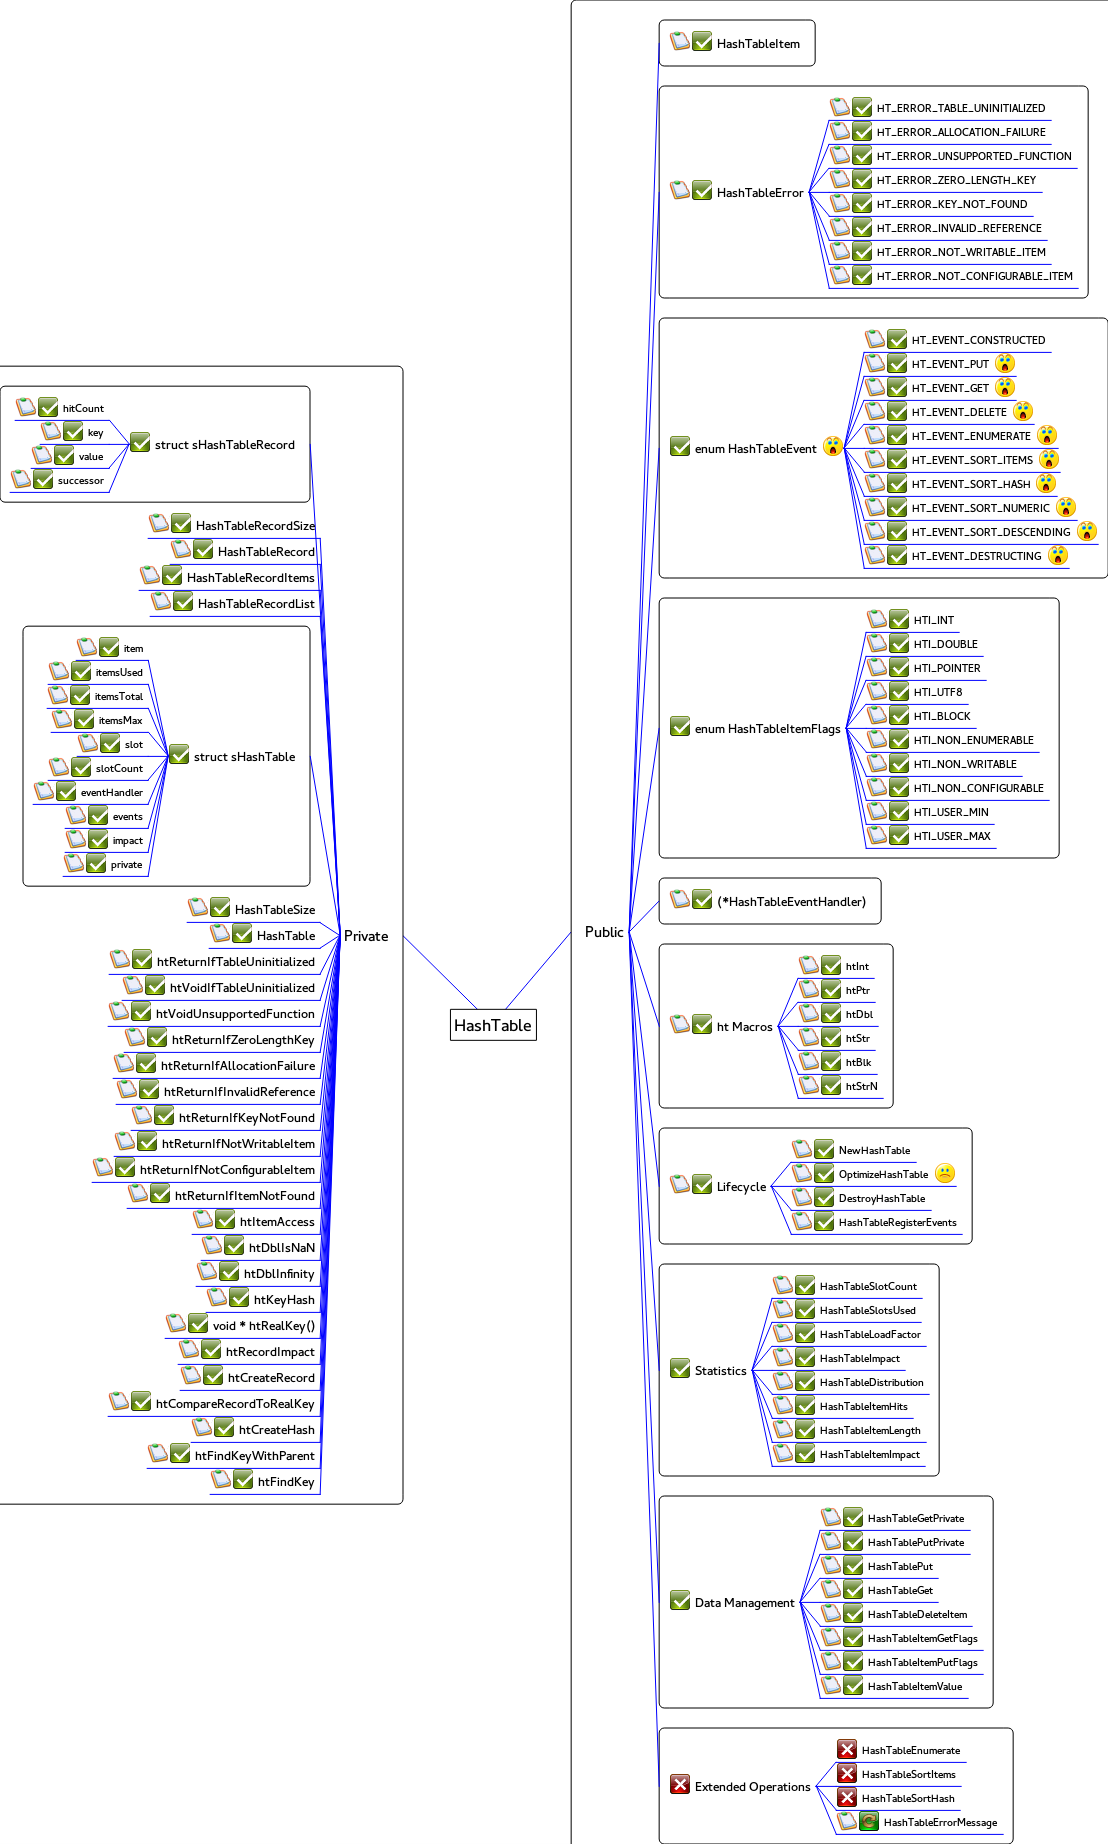
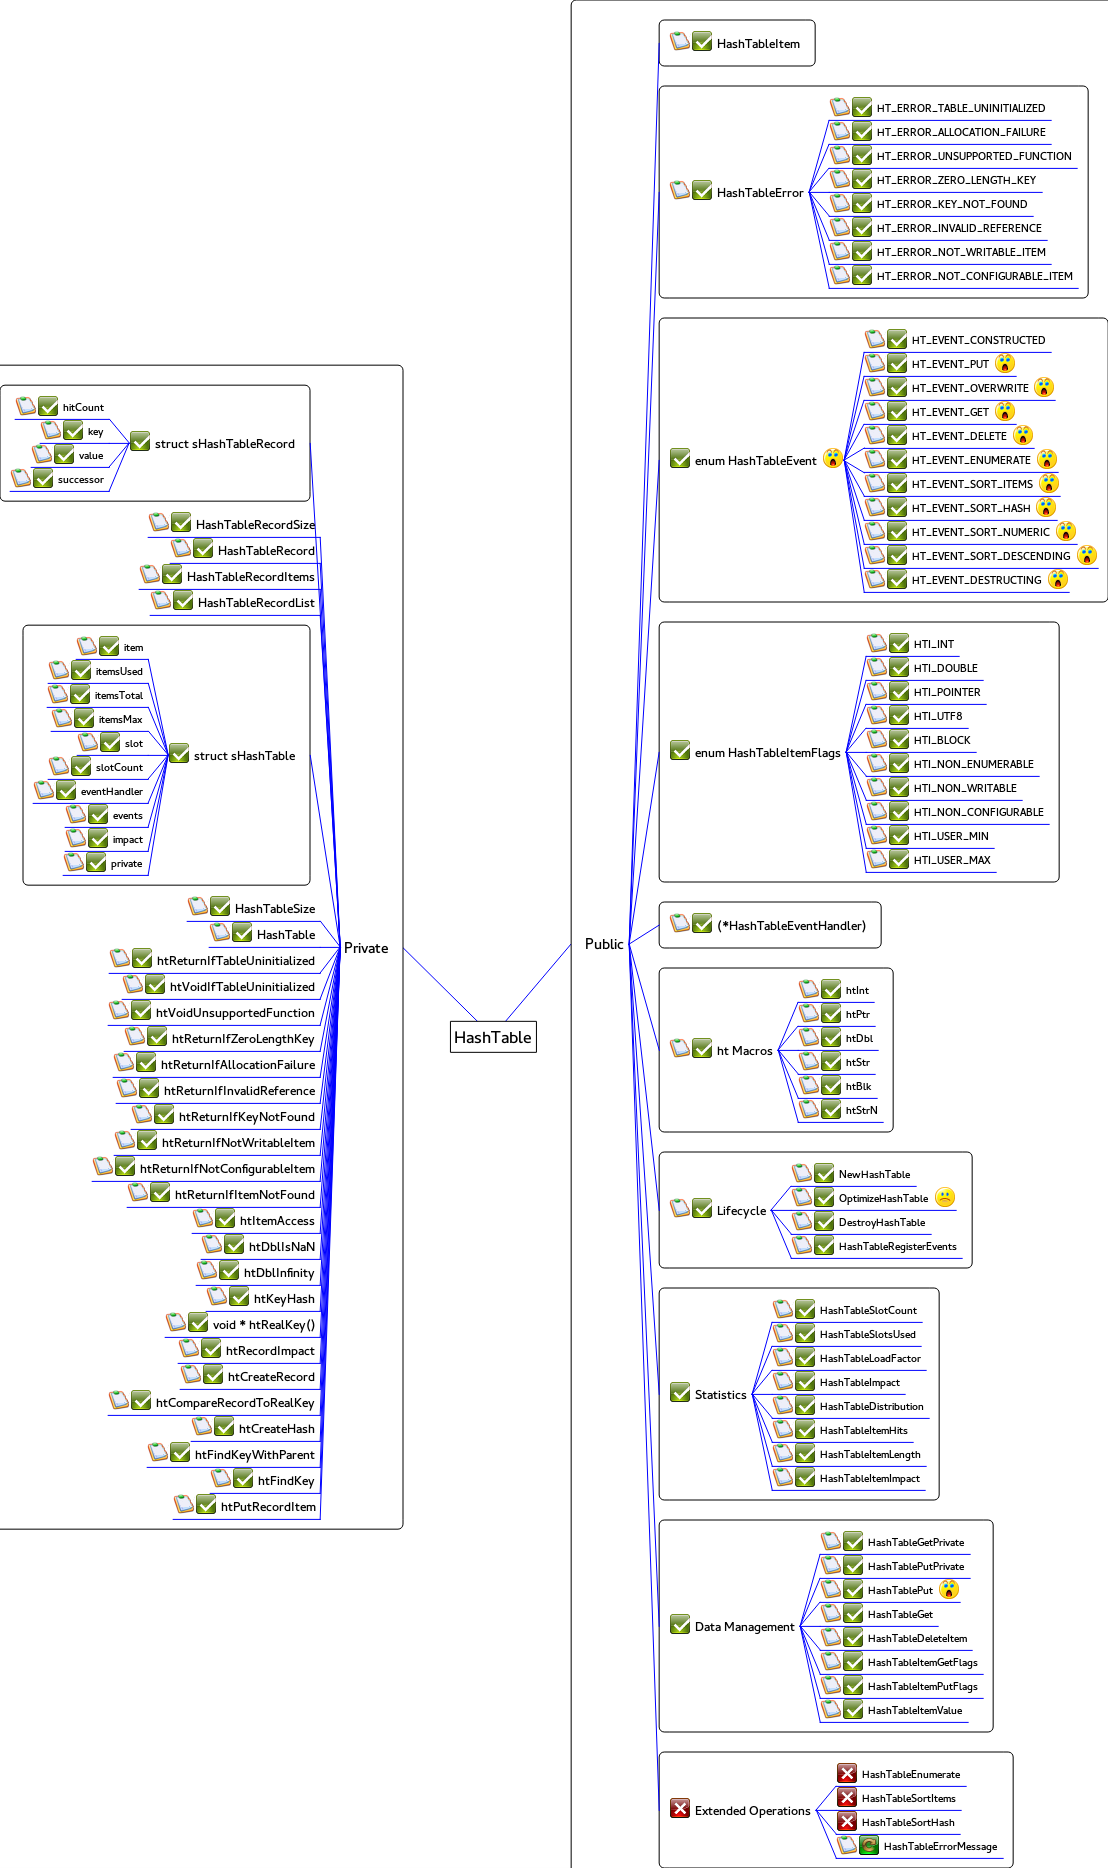
Documentation sync

diff --git a/HashTable.html b/HashTable.html
@@ -65,42 +65,47 @@ size_t HT_EVENT_CONSTRUCTED<br/><br/>A new hash table has been successfully cons
 size_T HT_EVENT_PUT<br/><br/>The API has been instructed to put data into the hash table.<br/>
 </td></tr></table>
 </li>
-<li><span class='vym-branch3'  id='mc:0,bo:0,bo:2,bo:2'>HT_EVENT_GET</span>
+<li><span class='vym-branch3'  id='mc:0,bo:0,bo:2,bo:2'>HT_EVENT_OVERWRITE</span>
+<table class="vym-note"><tr><td>
+size_t HT_EVENT_OVERWRITE<br/><br/>The API has been instructed to overwrite existing data.<br/>
+</td></tr></table>
+</li>
+<li><span class='vym-branch3'  id='mc:0,bo:0,bo:2,bo:3'>HT_EVENT_GET</span>
 <table class="vym-note"><tr><td>
 size_t HT_EVENT_GET<br/><br/>The API has been queried for a record.<br/>
 </td></tr></table>
 </li>
-<li><span class='vym-branch3'  id='mc:0,bo:0,bo:2,bo:3'>HT_EVENT_DELETE</span>
+<li><span class='vym-branch3'  id='mc:0,bo:0,bo:2,bo:4'>HT_EVENT_DELETE</span>
 <table class="vym-note"><tr><td>
 size_t HT_EVENT_DELETE<br/><br/>The API has been instructed to delete a record.<br/>
 </td></tr></table>
 </li>
-<li><span class='vym-branch3'  id='mc:0,bo:0,bo:2,bo:4'>HT_EVENT_ENUMERATE</span>
+<li><span class='vym-branch3'  id='mc:0,bo:0,bo:2,bo:5'>HT_EVENT_ENUMERATE</span>
 <table class="vym-note"><tr><td>
 size_t HT_EVENT_ENUMERATE<br/><br/>The hash table is being enumerated.<br/>
 </td></tr></table>
 </li>
-<li><span class='vym-branch3'  id='mc:0,bo:0,bo:2,bo:5'>HT_EVENT_SORT_ITEMS</span>
+<li><span class='vym-branch3'  id='mc:0,bo:0,bo:2,bo:6'>HT_EVENT_SORT_ITEMS</span>
 <table class="vym-note"><tr><td>
 size_t HT_EVENT_SORT_ITEMS<br/><br/>The API would like the user to make a sort decision on table items.<br/>
 </td></tr></table>
 </li>
-<li><span class='vym-branch3'  id='mc:0,bo:0,bo:2,bo:6'>HT_EVENT_SORT_HASH</span>
+<li><span class='vym-branch3'  id='mc:0,bo:0,bo:2,bo:7'>HT_EVENT_SORT_HASH</span>
 <table class="vym-note"><tr><td>
 size_t HT_EVENT_SORT_HASH<br/><br/>The API would like the user to make a sort decision on a hash table slot.<br/><br/>
 </td></tr></table>
 </li>
-<li><span class='vym-branch3'  id='mc:0,bo:0,bo:2,bo:7'>HT_EVENT_SORT_NUMERIC</span>
+<li><span class='vym-branch3'  id='mc:0,bo:0,bo:2,bo:8'>HT_EVENT_SORT_NUMERIC</span>
 <table class="vym-note"><tr><td>
 size_t HT_EVENT_SORT_NUMERIC<br/><br/>The API would like the user to make a sort decision based on numeric properties. If not specified, implementation defined sort is assumed.<br/>
 </td></tr></table>
 </li>
-<li><span class='vym-branch3'  id='mc:0,bo:0,bo:2,bo:8'>HT_EVENT_SORT_DESCENDING</span>
+<li><span class='vym-branch3'  id='mc:0,bo:0,bo:2,bo:9'>HT_EVENT_SORT_DESCENDING</span>
 <table class="vym-note"><tr><td>
 size_t HT_EVENT_SORT_DESCENDING<br/><br/>The API would like the user to make a descending sort decision. If not specified ascending sort order is implied.<br/><br/>
 </td></tr></table>
 </li>
-<li><span class='vym-branch3'  id='mc:0,bo:0,bo:2,bo:9'>HT_EVENT_DESTRUCTING</span>
+<li><span class='vym-branch3'  id='mc:0,bo:0,bo:2,bo:10'>HT_EVENT_DESTRUCTING</span>
 <table class="vym-note"><tr><td>
 size_t HT_EVENT_DESTRUCTING<br/><br/>A hash table is about to be destroyed.<br/>
 </td></tr></table>
@@ -540,12 +545,17 @@ HashTableRecord htFindKeyWithParent(HashTable table, size_t keyLength, void * re
 HashTableRecord htFindKey(HashTable table, size_t keyLength, void * realKey)<br/><br/>Locate a key within a table's records and return its 1 based index within the linear list or zero if not found.<br/>
 </td></tr></table>
 </li>
+<li><span class='vym-branch2'  id='mc:0,bo:1,bo:29'>htPutRecordItem</span>
+<table class="vym-note"><tr><td>
+HashTableItem htPutRecordItem(HashTable ht, HashTableRecord this)<br/><br/>Places a record into the hash table's record list, and updates all statistical information concerning records.<br/>
+</td></tr></table>
+</li>
 </ul>
 </li>
 </ul>
 <map name='imagemap'>
-  <area shape='rect' coords='450.443,1009.33,536.443,1040.33' href='#mc:0'>
-  <area shape='rect' coords='581.164,917.5,629.164,946.5' href='#mc:0,bo:0'>
+  <area shape='rect' coords='450.443,1021.33,536.443,1052.33' href='#mc:0'>
+  <area shape='rect' coords='581.164,929.5,629.164,958.5' href='#mc:0,bo:0'>
   <area shape='rect' coords='713.164,30,805.164,56' href='#mc:0,bo:0,bo:0'>
   <area shape='rect' coords='713.164,179,809.164,205' href='#mc:0,bo:0,bo:1'>
   <area shape='rect' coords='873.164,96,1051.16,120' href='#mc:0,bo:0,bo:1,bo:0'>
@@ -556,114 +566,116 @@ HashTableRecord htFindKey(HashTable table, size_t keyLength, void * realKey)<br/
   <area shape='rect' coords='873.164,216,1047.16,240' href='#mc:0,bo:0,bo:1,bo:5'>
   <area shape='rect' coords='873.164,240,1051.16,264' href='#mc:0,bo:0,bo:1,bo:6'>
   <area shape='rect' coords='873.164,264,1078.16,288' href='#mc:0,bo:0,bo:1,bo:7'>
-  <area shape='rect' coords='691.164,435,822.164,461' href='#mc:0,bo:0,bo:2'>
+  <area shape='rect' coords='691.164,447,822.164,473' href='#mc:0,bo:0,bo:2'>
   <area shape='rect' coords='908.164,328,1051.16,352' href='#mc:0,bo:0,bo:2,bo:0'>
   <area shape='rect' coords='908.164,352,994.164,376' href='#mc:0,bo:0,bo:2,bo:1'>
-  <area shape='rect' coords='908.164,376,994.164,400' href='#mc:0,bo:0,bo:2,bo:2'>
-  <area shape='rect' coords='908.164,400,1012.16,424' href='#mc:0,bo:0,bo:2,bo:3'>
-  <area shape='rect' coords='908.164,424,1036.16,448' href='#mc:0,bo:0,bo:2,bo:4'>
-  <area shape='rect' coords='908.164,448,1038.16,472' href='#mc:0,bo:0,bo:2,bo:5'>
-  <area shape='rect' coords='908.164,472,1035.16,496' href='#mc:0,bo:0,bo:2,bo:6'>
-  <area shape='rect' coords='908.164,496,1055.16,520' href='#mc:0,bo:0,bo:2,bo:7'>
-  <area shape='rect' coords='908.164,520,1076.16,544' href='#mc:0,bo:0,bo:2,bo:8'>
-  <area shape='rect' coords='908.164,544,1047.16,568' href='#mc:0,bo:0,bo:2,bo:9'>
-  <area shape='rect' coords='691.164,715,846.164,741' href='#mc:0,bo:0,bo:3'>
-  <area shape='rect' coords='910.164,608,959.164,632' href='#mc:0,bo:0,bo:3,bo:0'>
-  <area shape='rect' coords='910.164,632,983.164,656' href='#mc:0,bo:0,bo:3,bo:1'>
-  <area shape='rect' coords='910.164,656,986.164,680' href='#mc:0,bo:0,bo:3,bo:2'>
-  <area shape='rect' coords='910.164,680,968.164,704' href='#mc:0,bo:0,bo:3,bo:3'>
-  <area shape='rect' coords='910.164,704,976.164,728' href='#mc:0,bo:0,bo:3,bo:4'>
-  <area shape='rect' coords='910.164,728,1039.16,752' href='#mc:0,bo:0,bo:3,bo:5'>
-  <area shape='rect' coords='910.164,752,1022.16,776' href='#mc:0,bo:0,bo:3,bo:6'>
-  <area shape='rect' coords='910.164,776,1049.16,800' href='#mc:0,bo:0,bo:3,bo:7'>
-  <area shape='rect' coords='910.164,800,994.164,824' href='#mc:0,bo:0,bo:3,bo:8'>
-  <area shape='rect' coords='910.164,824,996.164,848' href='#mc:0,bo:0,bo:3,bo:9'>
-  <area shape='rect' coords='713.164,888,871.164,914' href='#mc:0,bo:0,bo:4'>
-  <area shape='rect' coords='713.164,1013,778.164,1039' href='#mc:0,bo:0,bo:5'>
-  <area shape='rect' coords='842.164,954,874.164,978' href='#mc:0,bo:0,bo:5,bo:0'>
-  <area shape='rect' coords='842.164,978,875.164,1002' href='#mc:0,bo:0,bo:5,bo:1'>
-  <area shape='rect' coords='842.164,1002,878.164,1026' href='#mc:0,bo:0,bo:5,bo:2'>
-  <area shape='rect' coords='842.164,1026,875.164,1050' href='#mc:0,bo:0,bo:5,bo:3'>
-  <area shape='rect' coords='842.164,1050,877.164,1074' href='#mc:0,bo:0,bo:5,bo:4'>
-  <area shape='rect' coords='842.164,1074,883.164,1098' href='#mc:0,bo:0,bo:5,bo:5'>
-  <area shape='rect' coords='713.164,1173,771.164,1199' href='#mc:0,bo:0,bo:6'>
-  <area shape='rect' coords='835.164,1138,916.164,1162' href='#mc:0,bo:0,bo:6,bo:0'>
-  <area shape='rect' coords='835.164,1162,934.164,1186' href='#mc:0,bo:0,bo:6,bo:1'>
-  <area shape='rect' coords='835.164,1186,931.164,1210' href='#mc:0,bo:0,bo:6,bo:2'>
-  <area shape='rect' coords='835.164,1210,962.164,1234' href='#mc:0,bo:0,bo:6,bo:3'>
-  <area shape='rect' coords='691.164,1357,752.164,1383' href='#mc:0,bo:0,bo:7'>
-  <area shape='rect' coords='816.164,1274,922.164,1298' href='#mc:0,bo:0,bo:7,bo:0'>
-  <area shape='rect' coords='816.164,1298,921.164,1322' href='#mc:0,bo:0,bo:7,bo:1'>
-  <area shape='rect' coords='816.164,1322,926.164,1346' href='#mc:0,bo:0,bo:7,bo:2'>
-  <area shape='rect' coords='816.164,1346,905.164,1370' href='#mc:0,bo:0,bo:7,bo:3'>
-  <area shape='rect' coords='816.164,1370,929.164,1394' href='#mc:0,bo:0,bo:7,bo:4'>
-  <area shape='rect' coords='816.164,1394,913.164,1418' href='#mc:0,bo:0,bo:7,bo:5'>
-  <area shape='rect' coords='816.164,1418,926.164,1442' href='#mc:0,bo:0,bo:7,bo:6'>
-  <area shape='rect' coords='816.164,1442,925.164,1466' href='#mc:0,bo:0,bo:7,bo:7'>
-  <area shape='rect' coords='691.164,1589,800.164,1615' href='#mc:0,bo:0,bo:8'>
-  <area shape='rect' coords='864.164,1506,970.164,1530' href='#mc:0,bo:0,bo:8,bo:0'>
-  <area shape='rect' coords='864.164,1530,970.164,1554' href='#mc:0,bo:0,bo:8,bo:1'>
-  <area shape='rect' coords='864.164,1554,938.164,1578' href='#mc:0,bo:0,bo:8,bo:2'>
-  <area shape='rect' coords='864.164,1578,938.164,1602' href='#mc:0,bo:0,bo:8,bo:3'>
-  <area shape='rect' coords='864.164,1602,972.164,1626' href='#mc:0,bo:0,bo:8,bo:4'>
-  <area shape='rect' coords='864.164,1626,983.164,1650' href='#mc:0,bo:0,bo:8,bo:5'>
-  <area shape='rect' coords='864.164,1650,983.164,1674' href='#mc:0,bo:0,bo:8,bo:6'>
-  <area shape='rect' coords='864.164,1674,968.164,1698' href='#mc:0,bo:0,bo:8,bo:7'>
-  <area shape='rect' coords='691.164,1773,816.164,1799' href='#mc:0,bo:0,bo:9'>
-  <area shape='rect' coords='858.164,1738,966.164,1762' href='#mc:0,bo:0,bo:9,bo:0'>
-  <area shape='rect' coords='858.164,1762,961.164,1786' href='#mc:0,bo:0,bo:9,bo:1'>
-  <area shape='rect' coords='858.164,1786,960.164,1810' href='#mc:0,bo:0,bo:9,bo:2'>
-  <area shape='rect' coords='880.164,1810,1003.16,1834' href='#mc:0,bo:0,bo:9,bo:3'>
-  <area shape='rect' coords='340,920.664,393,949.664' href='#mc:0,bo:1'>
-  <area shape='rect' coords='151,431.164,300,457.164' href='#mc:0,bo:1,bo:0'>
-  <area shape='rect' coords='59,396.164,109,420.164' href='#mc:0,bo:1,bo:0,bo:0'>
-  <area shape='rect' coords='84,420.164,109,444.164' href='#mc:0,bo:1,bo:0,bo:1'>
-  <area shape='rect' coords='75,444.164,109,468.164' href='#mc:0,bo:1,bo:0,bo:2'>
-  <area shape='rect' coords='54,468.164,109,492.164' href='#mc:0,bo:1,bo:0,bo:3'>
-  <area shape='rect' coords='192,512.164,320,538.164' href='#mc:0,bo:1,bo:1'>
-  <area shape='rect' coords='214,538.164,320,564.164' href='#mc:0,bo:1,bo:2'>
-  <area shape='rect' coords='183,564.164,320,590.164' href='#mc:0,bo:1,bo:3'>
-  <area shape='rect' coords='194,590.164,320,616.164' href='#mc:0,bo:1,bo:4'>
-  <area shape='rect' coords='190,743.164,300,769.164' href='#mc:0,bo:1,bo:5'>
-  <area shape='rect' coords='120,636.164,148,660.164' href='#mc:0,bo:1,bo:5,bo:0'>
-  <area shape='rect' coords='92,660.164,148,684.164' href='#mc:0,bo:1,bo:5,bo:1'>
-  <area shape='rect' coords='91,684.164,148,708.164' href='#mc:0,bo:1,bo:5,bo:2'>
-  <area shape='rect' coords='95,708.164,148,732.164' href='#mc:0,bo:1,bo:5,bo:3'>
-  <area shape='rect' coords='121,732.164,148,756.164' href='#mc:0,bo:1,bo:5,bo:4'>
-  <area shape='rect' coords='92,756.164,148,780.164' href='#mc:0,bo:1,bo:5,bo:5'>
-  <area shape='rect' coords='77,780.164,148,804.164' href='#mc:0,bo:1,bo:5,bo:6'>
-  <area shape='rect' coords='109,804.164,148,828.164' href='#mc:0,bo:1,bo:5,bo:7'>
-  <area shape='rect' coords='109,828.164,148,852.164' href='#mc:0,bo:1,bo:5,bo:8'>
-  <area shape='rect' coords='107,852.164,148,876.164' href='#mc:0,bo:1,bo:5,bo:9'>
-  <area shape='rect' coords='231,896.164,320,922.164' href='#mc:0,bo:1,bo:6'>
-  <area shape='rect' coords='253,922.164,320,948.164' href='#mc:0,bo:1,bo:7'>
-  <area shape='rect' coords='153,948.164,320,974.164' href='#mc:0,bo:1,bo:8'>
-  <area shape='rect' coords='166,974.164,320,1000.16' href='#mc:0,bo:1,bo:9'>
-  <area shape='rect' coords='152,1000.16,320,1026.16' href='#mc:0,bo:1,bo:10'>
-  <area shape='rect' coords='168,1026.16,320,1052.16' href='#mc:0,bo:1,bo:11'>
-  <area shape='rect' coords='157,1052.16,320,1078.16' href='#mc:0,bo:1,bo:12'>
-  <area shape='rect' coords='160,1078.16,320,1104.16' href='#mc:0,bo:1,bo:13'>
-  <area shape='rect' coords='175,1104.16,320,1130.16' href='#mc:0,bo:1,bo:14'>
-  <area shape='rect' coords='158,1130.16,320,1156.16' href='#mc:0,bo:1,bo:15'>
-  <area shape='rect' coords='136,1156.16,320,1182.16' href='#mc:0,bo:1,bo:16'>
-  <area shape='rect' coords='171,1182.16,320,1208.16' href='#mc:0,bo:1,bo:17'>
-  <area shape='rect' coords='236,1208.16,320,1234.16' href='#mc:0,bo:1,bo:18'>
-  <area shape='rect' coords='245,1234.16,320,1260.16' href='#mc:0,bo:1,bo:19'>
-  <area shape='rect' coords='240,1260.16,320,1286.16' href='#mc:0,bo:1,bo:20'>
-  <area shape='rect' coords='250,1286.16,320,1312.16' href='#mc:0,bo:1,bo:21'>
-  <area shape='rect' coords='209,1312.16,320,1338.16' href='#mc:0,bo:1,bo:22'>
-  <area shape='rect' coords='222,1338.16,320,1364.16' href='#mc:0,bo:1,bo:23'>
-  <area shape='rect' coords='224,1364.16,320,1390.16' href='#mc:0,bo:1,bo:24'>
-  <area shape='rect' coords='152,1390.16,320,1416.16' href='#mc:0,bo:1,bo:25'>
-  <area shape='rect' coords='235,1416.16,320,1442.16' href='#mc:0,bo:1,bo:26'>
-  <area shape='rect' coords='191,1442.16,320,1468.16' href='#mc:0,bo:1,bo:27'>
-  <area shape='rect' coords='254,1468.16,320,1494.16' href='#mc:0,bo:1,bo:28'>
+  <area shape='rect' coords='908.164,376,1033.16,400' href='#mc:0,bo:0,bo:2,bo:2'>
+  <area shape='rect' coords='908.164,400,994.164,424' href='#mc:0,bo:0,bo:2,bo:3'>
+  <area shape='rect' coords='908.164,424,1012.16,448' href='#mc:0,bo:0,bo:2,bo:4'>
+  <area shape='rect' coords='908.164,448,1036.16,472' href='#mc:0,bo:0,bo:2,bo:5'>
+  <area shape='rect' coords='908.164,472,1038.16,496' href='#mc:0,bo:0,bo:2,bo:6'>
+  <area shape='rect' coords='908.164,496,1035.16,520' href='#mc:0,bo:0,bo:2,bo:7'>
+  <area shape='rect' coords='908.164,520,1055.16,544' href='#mc:0,bo:0,bo:2,bo:8'>
+  <area shape='rect' coords='908.164,544,1076.16,568' href='#mc:0,bo:0,bo:2,bo:9'>
+  <area shape='rect' coords='908.164,568,1047.16,592' href='#mc:0,bo:0,bo:2,bo:10'>
+  <area shape='rect' coords='691.164,739,846.164,765' href='#mc:0,bo:0,bo:3'>
+  <area shape='rect' coords='910.164,632,959.164,656' href='#mc:0,bo:0,bo:3,bo:0'>
+  <area shape='rect' coords='910.164,656,983.164,680' href='#mc:0,bo:0,bo:3,bo:1'>
+  <area shape='rect' coords='910.164,680,986.164,704' href='#mc:0,bo:0,bo:3,bo:2'>
+  <area shape='rect' coords='910.164,704,968.164,728' href='#mc:0,bo:0,bo:3,bo:3'>
+  <area shape='rect' coords='910.164,728,976.164,752' href='#mc:0,bo:0,bo:3,bo:4'>
+  <area shape='rect' coords='910.164,752,1039.16,776' href='#mc:0,bo:0,bo:3,bo:5'>
+  <area shape='rect' coords='910.164,776,1022.16,800' href='#mc:0,bo:0,bo:3,bo:6'>
+  <area shape='rect' coords='910.164,800,1049.16,824' href='#mc:0,bo:0,bo:3,bo:7'>
+  <area shape='rect' coords='910.164,824,994.164,848' href='#mc:0,bo:0,bo:3,bo:8'>
+  <area shape='rect' coords='910.164,848,996.164,872' href='#mc:0,bo:0,bo:3,bo:9'>
+  <area shape='rect' coords='713.164,912,871.164,938' href='#mc:0,bo:0,bo:4'>
+  <area shape='rect' coords='713.164,1037,778.164,1063' href='#mc:0,bo:0,bo:5'>
+  <area shape='rect' coords='842.164,978,874.164,1002' href='#mc:0,bo:0,bo:5,bo:0'>
+  <area shape='rect' coords='842.164,1002,875.164,1026' href='#mc:0,bo:0,bo:5,bo:1'>
+  <area shape='rect' coords='842.164,1026,878.164,1050' href='#mc:0,bo:0,bo:5,bo:2'>
+  <area shape='rect' coords='842.164,1050,875.164,1074' href='#mc:0,bo:0,bo:5,bo:3'>
+  <area shape='rect' coords='842.164,1074,877.164,1098' href='#mc:0,bo:0,bo:5,bo:4'>
+  <area shape='rect' coords='842.164,1098,883.164,1122' href='#mc:0,bo:0,bo:5,bo:5'>
+  <area shape='rect' coords='713.164,1197,771.164,1223' href='#mc:0,bo:0,bo:6'>
+  <area shape='rect' coords='835.164,1162,916.164,1186' href='#mc:0,bo:0,bo:6,bo:0'>
+  <area shape='rect' coords='835.164,1186,934.164,1210' href='#mc:0,bo:0,bo:6,bo:1'>
+  <area shape='rect' coords='835.164,1210,931.164,1234' href='#mc:0,bo:0,bo:6,bo:2'>
+  <area shape='rect' coords='835.164,1234,962.164,1258' href='#mc:0,bo:0,bo:6,bo:3'>
+  <area shape='rect' coords='691.164,1381,752.164,1407' href='#mc:0,bo:0,bo:7'>
+  <area shape='rect' coords='816.164,1298,922.164,1322' href='#mc:0,bo:0,bo:7,bo:0'>
+  <area shape='rect' coords='816.164,1322,921.164,1346' href='#mc:0,bo:0,bo:7,bo:1'>
+  <area shape='rect' coords='816.164,1346,926.164,1370' href='#mc:0,bo:0,bo:7,bo:2'>
+  <area shape='rect' coords='816.164,1370,905.164,1394' href='#mc:0,bo:0,bo:7,bo:3'>
+  <area shape='rect' coords='816.164,1394,929.164,1418' href='#mc:0,bo:0,bo:7,bo:4'>
+  <area shape='rect' coords='816.164,1418,913.164,1442' href='#mc:0,bo:0,bo:7,bo:5'>
+  <area shape='rect' coords='816.164,1442,926.164,1466' href='#mc:0,bo:0,bo:7,bo:6'>
+  <area shape='rect' coords='816.164,1466,925.164,1490' href='#mc:0,bo:0,bo:7,bo:7'>
+  <area shape='rect' coords='691.164,1613,800.164,1639' href='#mc:0,bo:0,bo:8'>
+  <area shape='rect' coords='864.164,1530,970.164,1554' href='#mc:0,bo:0,bo:8,bo:0'>
+  <area shape='rect' coords='864.164,1554,970.164,1578' href='#mc:0,bo:0,bo:8,bo:1'>
+  <area shape='rect' coords='864.164,1578,938.164,1602' href='#mc:0,bo:0,bo:8,bo:2'>
+  <area shape='rect' coords='864.164,1602,938.164,1626' href='#mc:0,bo:0,bo:8,bo:3'>
+  <area shape='rect' coords='864.164,1626,972.164,1650' href='#mc:0,bo:0,bo:8,bo:4'>
+  <area shape='rect' coords='864.164,1650,983.164,1674' href='#mc:0,bo:0,bo:8,bo:5'>
+  <area shape='rect' coords='864.164,1674,983.164,1698' href='#mc:0,bo:0,bo:8,bo:6'>
+  <area shape='rect' coords='864.164,1698,968.164,1722' href='#mc:0,bo:0,bo:8,bo:7'>
+  <area shape='rect' coords='691.164,1797,816.164,1823' href='#mc:0,bo:0,bo:9'>
+  <area shape='rect' coords='858.164,1762,966.164,1786' href='#mc:0,bo:0,bo:9,bo:0'>
+  <area shape='rect' coords='858.164,1786,961.164,1810' href='#mc:0,bo:0,bo:9,bo:1'>
+  <area shape='rect' coords='858.164,1810,960.164,1834' href='#mc:0,bo:0,bo:9,bo:2'>
+  <area shape='rect' coords='880.164,1834,1003.16,1858' href='#mc:0,bo:0,bo:9,bo:3'>
+  <area shape='rect' coords='340,932.664,393,961.664' href='#mc:0,bo:1'>
+  <area shape='rect' coords='151,430.164,300,456.164' href='#mc:0,bo:1,bo:0'>
+  <area shape='rect' coords='59,395.164,109,419.164' href='#mc:0,bo:1,bo:0,bo:0'>
+  <area shape='rect' coords='84,419.164,109,443.164' href='#mc:0,bo:1,bo:0,bo:1'>
+  <area shape='rect' coords='75,443.164,109,467.164' href='#mc:0,bo:1,bo:0,bo:2'>
+  <area shape='rect' coords='54,467.164,109,491.164' href='#mc:0,bo:1,bo:0,bo:3'>
+  <area shape='rect' coords='192,511.164,320,537.164' href='#mc:0,bo:1,bo:1'>
+  <area shape='rect' coords='214,537.164,320,563.164' href='#mc:0,bo:1,bo:2'>
+  <area shape='rect' coords='183,563.164,320,589.164' href='#mc:0,bo:1,bo:3'>
+  <area shape='rect' coords='194,589.164,320,615.164' href='#mc:0,bo:1,bo:4'>
+  <area shape='rect' coords='190,742.164,300,768.164' href='#mc:0,bo:1,bo:5'>
+  <area shape='rect' coords='120,635.164,148,659.164' href='#mc:0,bo:1,bo:5,bo:0'>
+  <area shape='rect' coords='92,659.164,148,683.164' href='#mc:0,bo:1,bo:5,bo:1'>
+  <area shape='rect' coords='91,683.164,148,707.164' href='#mc:0,bo:1,bo:5,bo:2'>
+  <area shape='rect' coords='95,707.164,148,731.164' href='#mc:0,bo:1,bo:5,bo:3'>
+  <area shape='rect' coords='121,731.164,148,755.164' href='#mc:0,bo:1,bo:5,bo:4'>
+  <area shape='rect' coords='92,755.164,148,779.164' href='#mc:0,bo:1,bo:5,bo:5'>
+  <area shape='rect' coords='77,779.164,148,803.164' href='#mc:0,bo:1,bo:5,bo:6'>
+  <area shape='rect' coords='109,803.164,148,827.164' href='#mc:0,bo:1,bo:5,bo:7'>
+  <area shape='rect' coords='109,827.164,148,851.164' href='#mc:0,bo:1,bo:5,bo:8'>
+  <area shape='rect' coords='107,851.164,148,875.164' href='#mc:0,bo:1,bo:5,bo:9'>
+  <area shape='rect' coords='231,895.164,320,921.164' href='#mc:0,bo:1,bo:6'>
+  <area shape='rect' coords='253,921.164,320,947.164' href='#mc:0,bo:1,bo:7'>
+  <area shape='rect' coords='153,947.164,320,973.164' href='#mc:0,bo:1,bo:8'>
+  <area shape='rect' coords='166,973.164,320,999.164' href='#mc:0,bo:1,bo:9'>
+  <area shape='rect' coords='152,999.164,320,1025.16' href='#mc:0,bo:1,bo:10'>
+  <area shape='rect' coords='168,1025.16,320,1051.16' href='#mc:0,bo:1,bo:11'>
+  <area shape='rect' coords='157,1051.16,320,1077.16' href='#mc:0,bo:1,bo:12'>
+  <area shape='rect' coords='160,1077.16,320,1103.16' href='#mc:0,bo:1,bo:13'>
+  <area shape='rect' coords='175,1103.16,320,1129.16' href='#mc:0,bo:1,bo:14'>
+  <area shape='rect' coords='158,1129.16,320,1155.16' href='#mc:0,bo:1,bo:15'>
+  <area shape='rect' coords='136,1155.16,320,1181.16' href='#mc:0,bo:1,bo:16'>
+  <area shape='rect' coords='171,1181.16,320,1207.16' href='#mc:0,bo:1,bo:17'>
+  <area shape='rect' coords='236,1207.16,320,1233.16' href='#mc:0,bo:1,bo:18'>
+  <area shape='rect' coords='245,1233.16,320,1259.16' href='#mc:0,bo:1,bo:19'>
+  <area shape='rect' coords='240,1259.16,320,1285.16' href='#mc:0,bo:1,bo:20'>
+  <area shape='rect' coords='250,1285.16,320,1311.16' href='#mc:0,bo:1,bo:21'>
+  <area shape='rect' coords='209,1311.16,320,1337.16' href='#mc:0,bo:1,bo:22'>
+  <area shape='rect' coords='222,1337.16,320,1363.16' href='#mc:0,bo:1,bo:23'>
+  <area shape='rect' coords='224,1363.16,320,1389.16' href='#mc:0,bo:1,bo:24'>
+  <area shape='rect' coords='152,1389.16,320,1415.16' href='#mc:0,bo:1,bo:25'>
+  <area shape='rect' coords='235,1415.16,320,1441.16' href='#mc:0,bo:1,bo:26'>
+  <area shape='rect' coords='191,1441.16,320,1467.16' href='#mc:0,bo:1,bo:27'>
+  <area shape='rect' coords='254,1467.16,320,1493.16' href='#mc:0,bo:1,bo:28'>
+  <area shape='rect' coords='217,1493.16,320,1519.16' href='#mc:0,bo:1,bo:29'>
 </map>
 <hr/>
 <table class="vym-footer">   
       <tr> 
         <td class="vym-footerL">HashTable.vym</td> 
-        <td class="vym-footerC">2014-02-20</td> 
+        <td class="vym-footerC">2014-02-21</td> 
         <td class="vym-footerR"> <a href='http://www.insilmaril.de/vym'>vym 2.2.4</a></td> 
       </tr> 
      </table>
